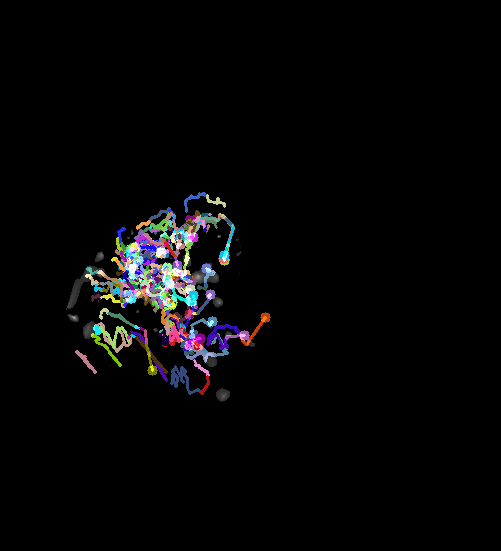
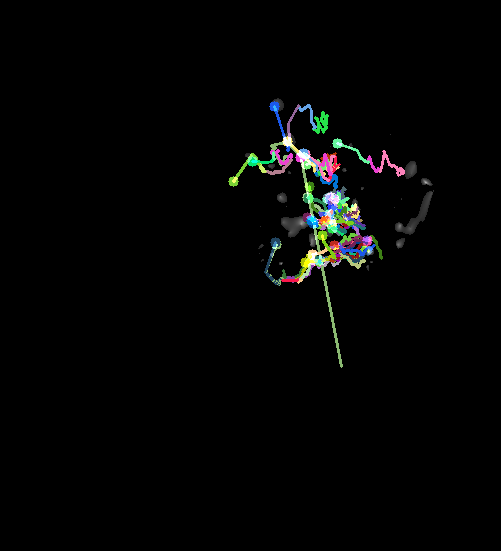
readme

diff --git a/optical_flow.py b/optical_flow.py
@@ -38,7 +38,7 @@ def flow(cap):
 def sparse(cap):
 
     # params for ShiTomasi corner detection
-    feature_params = dict( maxCorners = 100,
+    feature_params = dict( maxCorners = 50,
                            qualityLevel = 0.01,
                            minDistance = 3,
                            blockSize = 3)
@@ -59,36 +59,40 @@ def sparse(cap):
 
     # Create a mask image for drawing purposes
     mask = np.zeros_like(old_frame)
+    try:
+        for i in range(len(cap)):
+            frame = cap.pop()
+            frame_gray = cv2.cvtColor(frame, cv2.COLOR_BGR2GRAY)
 
-    for i in range(len(cap)):
-        frame = cap.pop()
-        frame_gray = cv2.cvtColor(frame, cv2.COLOR_BGR2GRAY)
+            # calculate optical flow
+            p1, st, err = cv2.calcOpticalFlowPyrLK(old_gray, frame_gray, p0, None, **lk_params)
 
-        # calculate optical flow
-        p1, st, err = cv2.calcOpticalFlowPyrLK(old_gray, frame_gray, p0, None, **lk_params)
+            # Select good points
+            good_new = p1[st==1]
+            good_old = p0[st==1]
 
-        # Select good points
-        good_new = p1[st==1]
-        good_old = p0[st==1]
+            # draw the tracks
+            for i,(new,old) in enumerate(zip(good_new,good_old)):
+                a,b = new.ravel()
+                c,d = old.ravel()
+                mask = cv2.line(mask, (a,b),(c,d), color[i].tolist(), 2)
+                frame = cv2.circle(frame,(a,b),5,color[i].tolist(),-1)
+            img = cv2.add(frame,mask)
 
-        # draw the tracks
-        for i,(new,old) in enumerate(zip(good_new,good_old)):
-            a,b = new.ravel()
-            c,d = old.ravel()
-            mask = cv2.line(mask, (a,b),(c,d), color[i].tolist(), 2)
-            frame = cv2.circle(frame,(a,b),5,color[i].tolist(),-1)
-        img = cv2.add(frame,mask)
+            cv2.imshow('frame',img)
+            k = cv2.waitKey(500) & 0xff
+            if k == 27:
+                break
 
-        cv2.imshow('frame',img)
-        k = cv2.waitKey(500) & 0xff
-        if k == 27:
-            break
-
-        # Now update the previous frame and previous points
-        old_gray = frame_gray.copy()
-        p0 = good_new.reshape(-1,1,2)
+            # Now update the previous frame and previous points
+            old_gray = frame_gray.copy()
+            p0 = good_new.reshape(-1,1,2)
+            print(len(cap))
+    except Exception as e:
+        print(e)
+        print(p1)
 
     cv2.destroyAllWindows()
 
     display(img, name="last frame")
-    cv2.imwrite("shrug.png", img)
+    save(img, 'lastframe.png')

diff --git a/main.py b/main.py
@@ -28,9 +28,9 @@ def formatMap(data, cr=False):
 	for d in data:
 		if abs(d.val)>50: 
 			d.set_val(0)
-		mult = 20
+		mult = 35
 		for i in range(3):
-			m[d.lat-1][501-d.lon-1][i] = abs(d.val) * mult
+			m[501-d.lat-1][d.lon-1][i] = abs(d.val) * mult
 	if cr: return crop(m)
 	m = cv2.threshold(m.astype(np.uint8),40,255,cv2.THRESH_TOZERO)[1]
 	return m
@@ -43,16 +43,16 @@ def crop(m, left=200, top=80, right=500, bottom=400):
 if __name__ == '__main__':
 	
 	# just list of file names
-	files = sortFiles(initFiles('./out/'), start=0, end=3)
+	files = sortFiles(initFiles('./out/'), start=0, end=3, r=True)
 	imgs = []
-	for i in range(50): 
+	for i in range(len(files)): 
 		imgs.append(read(files[i], crop=False)[1])
-		# display(imgs[i], mat=True)
+		# display(imgs[i], t=100)
 
-	first_frame, last_frame, overlay = flow(imgs)
+	# first_frame, last_frame, overlay = flow(imgs)
 	
-	display(first_frame, name="first frame")
-	display(last_frame, name="last frame")
-	display(overlay, name="overlay")
+	# display(first_frame, name="first frame")
+	# display(last_frame, name="last frame")
+	# display(overlay, name="overlay")
 
-	# sparse(imgs)
+	sparse(imgs)

diff --git a/dataProcessing.py b/dataProcessing.py
@@ -17,8 +17,8 @@ def initFiles(directory):
 	return files
 
 #sorts files in numeric order 1-480
-def sortFiles(files, start=4, end=-4):
-	files.sort(key = lambda x: int(x[start:end]))
+def sortFiles(files, start=4, end=-4, r=False):
+	files.sort(key = lambda x: int(x[start:end]), reverse=r)
 	return files
 
 # takes in a dataMap and saves it as a cv2 image

diff --git a/README.md b/README.md
@@ -3,10 +3,10 @@
 * acknowledgements to Dr. R. Pradipta for support and providing the data
 
 ### data:
-* 480 txt files (each corresponds to a point in time 3 mins apart)
-* Each txt file contains 551 lines (each corresponds to different latitude)
-* and each line contains 501 numbers (each column corresponds to different longitude)
-* each value is a TEC reading at that location and time
+* 480 txt files (each corresponds to a point in time; increment 3 mins apart)
+* Each txt file contains 551 lines (each corresponds to different latitude; increment by 0.2°)
+* and each line contains 501 numbers (each column corresponds to different longitude; increment by 0.2°)
+* each value is a TEC reading at that location and time; one unit is 10<sup>16</sup> electrons/m<sup>1</sup>
 	* negative values represent depletions
 
 * note: data in input & output files not published on github because of size limitations
